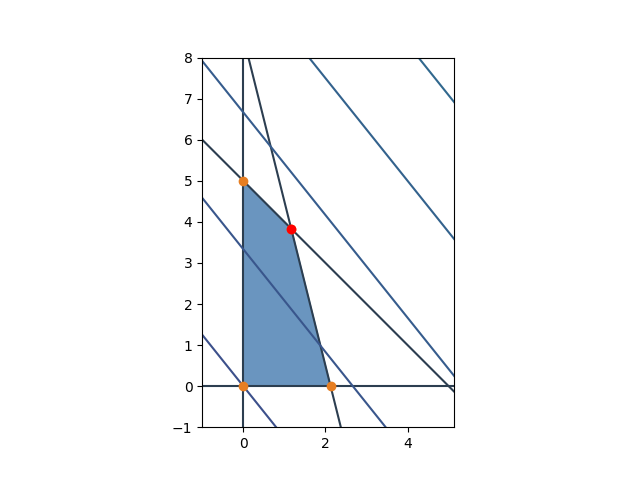
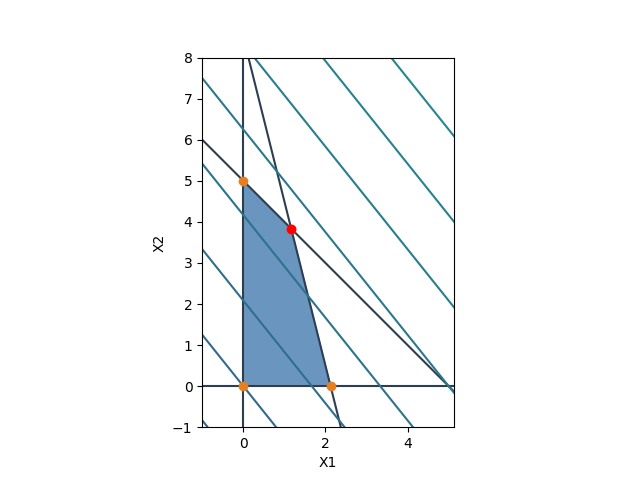
Adicionando X1/X2 na solução

diff --git a/scripts/graphicalSolution.py b/scripts/graphicalSolution.py
@@ -25,8 +25,8 @@ def plotagraf(z, table, pp, xlim, ylim, solution):
     ax = fig.add_subplot(aspect='equal')
 
 
-    k = np.linspace(-15, 50, 100)
-    i = np.linspace(-15, 50, 100)
+    k = np.linspace(-15, 30, 100)
+    i = np.linspace(-15, 30, 100)
 
     X, Y = np.meshgrid(k, i)
     Z = z[0] * X + z[1] * Y
@@ -51,7 +51,10 @@ def plotagraf(z, table, pp, xlim, ylim, solution):
     ax.contour(X, Y, Z, 50)
     ax.plot(x, y, 'o', color="#e67e22")
     ax.plot(solution[1],solution[2],'o',color="red")
+    plt.xlabel('X1')
+    plt.ylabel('X2')
     fig.savefig('scripts/figures/graf.png')
+
     plt.show()
 
 
